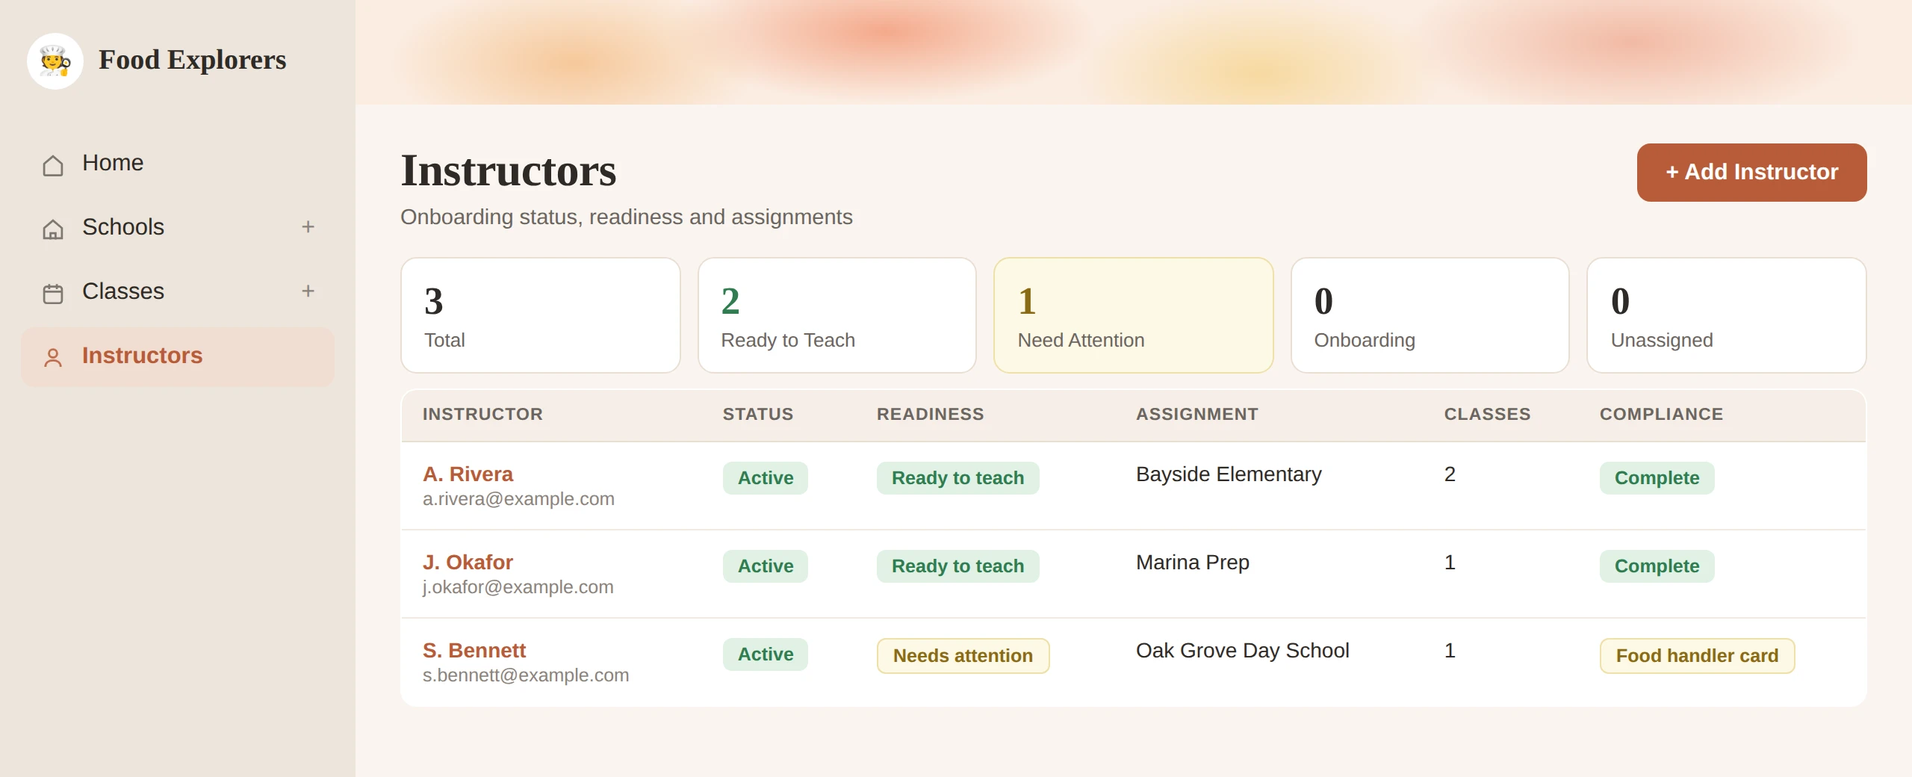
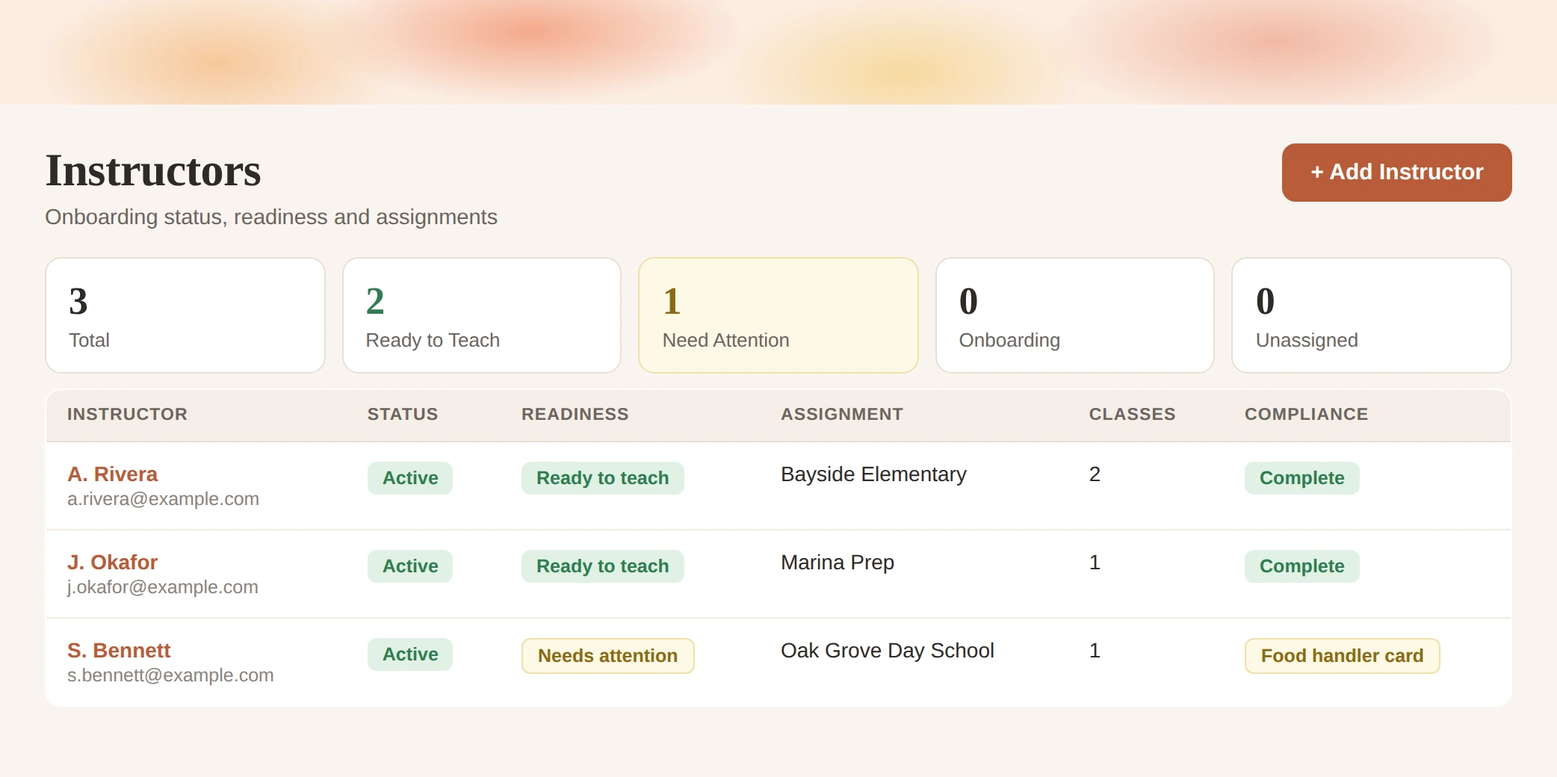
Rebuild the case study as a tight, repeatable template
It read as a feature tour rather than a case study: seven sections, four
full-width screenshots, and the argument spread so thin you had to work to
find it. Now five blocks and 585 words - header, the problem, what we
changed, what it looks like now, the result - with a comment at the top of the
file saying to copy it for the next one and resist adding a sixth.

Cut from four screenshots to two, which is the opposite of what "reduce the
image sizing" sounds like but is what it needs. These are shots of dense
tables: displayed smaller they look crisper and become unreadable, since 14px
type at 60% scale is 8px. Two images shown at a size where the type actually
reads beat four that are only decorative. The instructors view is cropped to
its content, because the empty sidebar was a quarter of the frame and repeated
from the image above it.

The compliance point is now a pull quote rather than a buried paragraph. It is
the sharpest thing in the story and the line another owner recognises: a late
invoice is an annoyance, an instructor turned away at a school door is not.

Text holds the spec's 680px measure; screenshots break out to 1000px so they
stay legible. Facts bar instead of prose for the at-a-glance details.

Fixed a signal error I introduced in the same pass: the list of manual work
used ledger-green ticks, which read as approval next to "hiring instructors by
hand". Neutral rules now.

Dropped the two unused images rather than shipping them; assets are down from
[…]

diff --git a/food-explorers.html b/food-explorers.html
@@ -4,9 +4,9 @@
 <meta charset="utf-8">
 <meta name="viewport" content="width=device-width, initial-scale=1">
 <title>Food Explorers</title>
-<meta name="description" content="After-school cooking classes across the Bay Area, run out of an inbox. What we changed about instructor onboarding, school compliance checks and seeing where the season stands.">
+<meta name="description" content="Case study: after-school cooking classes across the Bay Area, run out of one founder’s inbox. What we changed about instructor onboarding, school compliance checks and seeing where the season stands.">
 <meta property="og:title" content="Food Explorers">
-<meta property="og:description" content="After-school cooking classes across the Bay Area, run out of an inbox. What we changed about instructor onboarding, school compliance checks and seeing where the season stands.">
+<meta property="og:description" content="Case study: after-school cooking classes across the Bay Area, run out of one founder’s inbox. What we changed about instructor onboarding, school compliance checks and seeing where the season stands.">
 <link rel="preconnect" href="https://fonts.googleapis.com">
 <link rel="preconnect" href="https://fonts.gstatic.com" crossorigin>
 <link rel="stylesheet" href="https://fonts.googleapis.com/css2?family=Bricolage+Grotesque:opsz,wght@12..96,600;12..96,700&amp;family=Figtree:wght@400;500;600&amp;family=Kalam&amp;display=swap">
@@ -49,169 +49,122 @@
 
 <main id="main">
 
+<!-- =====================================================================
+     CASE STUDY TEMPLATE
+     Copy this file for the next one. Five blocks, in this order, and resist
+     adding a sixth:
+       1. Header      who they are, in one breath, plus the facts bar
+       2. The problem what it cost them, ending on the sharpest detail
+       3. What we changed   three items, one sentence each, no images
+       4. What it looks like now   two screenshots, readable size
+       5. Result + CTA
+     Keep it under ~600 words. A case study earns attention by being short
+     and specific, not by being thorough.
+     ===================================================================== -->
+
 <section class="sec sec--tight">
-  <div class="wrap">
-    <div class="sec-head">
-      <p class="eyebrow">How this worked for one business</p>
-      <h1>After-school cooking classes, run out of an inbox</h1>
-      <p class="lede">Food Explorers runs after-school cooking and baking classes in schools across the Bay Area. The classes were never the hard part. Everything around them was.</p>
-    </div>
+  <div class="wrap wrap--case">
+    <p class="eyebrow">Case study</p>
+    <h1>After-school cooking classes, run out of an inbox</h1>
+    <p class="lede cs-lede">Food Explorers teaches cooking and baking in schools across the Bay Area. Instructor onboarding, every school&rsquo;s background-check rules and all the invoicing ran through one founder&rsquo;s inbox.</p>
 
-    <div class="facts">
-      <div class="fact"><p class="fact__k">Business</p><p class="fact__v">After-school cooking and baking classes</p></div>
-      <div class="fact"><p class="fact__k">Where</p><p class="fact__v">Schools across the Bay Area</p></div>
-      <div class="fact"><p class="fact__k">Run by</p><p class="fact__v">The founder, with instructors on contract</p></div>
-      <div class="fact"><p class="fact__k">Started with</p><p class="fact__v">Google Drive, email and text messages</p></div>
-    </div>
+    <dl class="cs-facts">
+      <div><dt>Industry</dt><dd>After-school enrichment</dd></div>
+      <div><dt>Where</dt><dd>Bay Area schools</dd></div>
+      <div><dt>Team</dt><dd>Founder, plus contract instructors</dd></div>
+      <div><dt>Ran on</dt><dd>Google Drive, email, text messages</dd></div>
+    </dl>
   </div>
 </section>
 
-<section class="sec sec--deep">
-  <div class="wrap">
-    <div class="sec-head">
-      <h2>What a normal week looked like</h2>
-      <p class="lede">Every one of these was done by hand, by one person, every season.</p>
-    </div>
+<section class="sec sec--tight sec--deep">
+  <div class="wrap wrap--case">
+    <h2>The problem</h2>
+    <p class="cs-body">The classes were never the hard part. Everything around them was, and all of it ran again from scratch every season:</p>
 
-    <div class="wall" style="pointer-events:none">
-      <p class="stmt stmt--lg" style="cursor:default">Hiring an instructor, then walking them through onboarding from scratch.</p>
-      <p class="stmt" style="cursor:default">Training them, and getting them up to speed on how each school wants things done.</p>
-      <p class="stmt stmt--sm" style="cursor:default">Sending recipes and instructions out before every class.</p>
-      <p class="stmt" style="cursor:default">Working out schedules with schools and with parents.</p>
-      <p class="stmt stmt--lg" style="cursor:default">Writing and sending invoices to each school, one at a time.</p>
-      <p class="stmt" style="cursor:default">Remembering which background checks each school required, and who had finished them.</p>
-    </div>
+    <ul class="cs-list">
+      <li><svg width="18" height="18" viewBox="0 0 20 20" fill="none" stroke="#8A8279" stroke-width="1.75" stroke-linecap="round" aria-hidden="true"><path d="M4.5 10h11"/></svg><span>Hiring instructors, then walking each one through onboarding by hand</span></li>
+      <li><svg width="18" height="18" viewBox="0 0 20 20" fill="none" stroke="#8A8279" stroke-width="1.75" stroke-linecap="round" aria-hidden="true"><path d="M4.5 10h11"/></svg><span>Getting them up to speed on how each school wants things done</span></li>
+      <li><svg width="18" height="18" viewBox="0 0 20 20" fill="none" stroke="#8A8279" stroke-width="1.75" stroke-linecap="round" aria-hidden="true"><path d="M4.5 10h11"/></svg><span>Sending recipes and instructions before every class</span></li>
+      <li><svg width="18" height="18" viewBox="0 0 20 20" fill="none" stroke="#8A8279" stroke-width="1.75" stroke-linecap="round" aria-hidden="true"><path d="M4.5 10h11"/></svg><span>Working out schedules with schools and with parents</span></li>
+      <li><svg width="18" height="18" viewBox="0 0 20 20" fill="none" stroke="#8A8279" stroke-width="1.75" stroke-linecap="round" aria-hidden="true"><path d="M4.5 10h11"/></svg><span>Writing and sending every invoice, one at a time</span></li>
+      <li><svg width="18" height="18" viewBox="0 0 20 20" fill="none" stroke="#8A8279" stroke-width="1.75" stroke-linecap="round" aria-hidden="true"><path d="M4.5 10h11"/></svg><span>Remembering which background checks each school required, and who had finished them</span></li>
+    </ul>
 
-    <div class="prose" style="margin-top:clamp(28px,3.5vw,40px)">
-      <p>The documents themselves lived in Google Drive, which worked. The asking, the chasing and the remembering lived somewhere less reliable: a mix of email, text messages and the founder&rsquo;s memory.</p>
-      <p>None of it was broken, exactly. It just all ran through one person, and it all ran again from the start every season.</p>
-    </div>
+    <p class="cs-body">The documents lived in Google Drive, which worked. The asking, the chasing and the remembering lived in email, text messages and the founder&rsquo;s memory.</p>
+
+    <blockquote class="cs-pull">
+      <p>A late invoice is an annoyance. An instructor turned away at a school door on the first day of class is a different kind of problem &mdash; and every school sets its own rules about who is allowed on site.</p>
+    </blockquote>
+
+    <p class="cs-body">Tracked by hand, per instructor, per school, in an inbox. That is where the real risk sat.</p>
   </div>
 </section>
 
-<section class="sec">
-  <div class="wrap">
-    <div class="sec-head">
-      <h2>The part that couldn&rsquo;t slip</h2>
-    </div>
-    <div class="prose">
-      <p>Compliance. Before an instructor is allowed on a school site, that school&rsquo;s requirements have to be met: background checks, fingerprinting, whatever else that district asks for. Different schools want different things, in different forms, on different timelines.</p>
-      <p>A late invoice is an annoyance. An instructor turned away at the door on the first day of class is a different kind of problem, and it lands on the school&rsquo;s opinion of you as much as on the schedule.</p>
-      <p>Tracked by hand, per instructor, per school, in an inbox. That is where most of the risk sat.</p>
-    </div>
+<section class="sec sec--tight">
+  <div class="wrap wrap--case">
+    <h2>What we changed</h2>
+    <p class="cs-body">We followed a normal week before building anything. Three things were worth fixing; we left the rest alone.</p>
 
-    <div class="callout">
-      <svg width="18" height="18" viewBox="0 0 20 20" fill="none" stroke="#A9472A" stroke-width="1.75" stroke-linecap="round" stroke-linejoin="round" aria-hidden="true"><path d="M10 3.2l7.2 13.2H2.8z"/><path d="M10 8.4v3.2"/><path d="M10 14.1h.01"/></svg>
-      <p>This is the thing worth noticing: the founder wasn&rsquo;t behind because she was disorganised. She was behind because the work had no home outside her own attention.</p>
-    </div>
-  </div>
-</section>
-
-<section class="sec sec--deep">
-  <div class="wrap">
-    <div class="sec-head">
-      <h2>Where we started</h2>
-      <p class="lede">Not with software. With a walk through a normal week, to find which parts were actually costing her.</p>
-    </div>
-    <div class="prose">
-      <p>Three things came out of that. Onboarding took too many rounds of back-and-forth. Each school&rsquo;s compliance rules existed only in her head. And there was no single place to see where the season stood.</p>
-      <p>So we built those three, and left everything else alone.</p>
-    </div>
-  </div>
-</section>
-
-<section class="sec">
-  <div class="wrap">
-    <div class="sec-head">
-      <h2>What we built</h2>
-      <p class="lede">The views below are rebuilt from the real screens with example data. The layout and the information are hers; the names, schools and numbers are not.</p>
-    </div>
-
-    <div class="built">
-      <div class="built__n">01</div>
-      <div>
-        <h3>Onboarding that asks once</h3>
-        <p>A new instructor now gets one clear list of everything to send, up front, instead of discovering it over four rounds of email. What&rsquo;s arrived and what&rsquo;s still missing is visible without anyone having to ask.</p>
-        
-      <figure class="shot">
-        <img src="assets/fe-instructors.webp" width="2560" height="1040" loading="lazy" decoding="async"
-             alt="The instructor list: status, readiness, which school they are assigned to, and any compliance item still open.">
-        <figcaption>Every instructor, their onboarding status and what is still outstanding.</figcaption>
-      </figure>
-      </div>
-    </div>
-
-    <div class="built">
-      <div class="built__n">02</div>
-      <div>
-        <h3>A compliance checklist for each school</h3>
-        <p>Every school&rsquo;s requirements written down once, in one place, and tracked per instructor. When a school asks whether someone is cleared to be on site, the answer is on a screen rather than in a memory.</p>
-        
-      <figure class="shot">
-        <img src="assets/fe-schools.webp" width="2560" height="1294" loading="lazy" decoding="async"
-             alt="The schools view: active schools, classes and enrolment, with anything needing attention raised at the top.">
-        <figcaption>Each school, its classes, and anything needing attention.</figcaption>
-      </figure>
-      </div>
-    </div>
-
-    <div class="built">
-      <div class="built__n">03</div>
-      <div>
-        <h3>One view of the season</h3>
-        <p>Every school in the program, the classes running at each, which instructor is locked in, and which classes still have nobody. The things that need a decision sit at the top.</p>
-        
-      <figure class="shot">
-        <img src="assets/fe-season.webp" width="2560" height="1130" loading="lazy" decoding="async"
-             alt="The season overview: how ready the season is, and the two things that need the founder today.">
-        <figcaption>The season at a glance: what is ready, what is not, and what needs a decision today.</figcaption>
-      </figure>
-        
-      <figure class="shot">
-        <img src="assets/fe-classes.webp" width="2560" height="1412" loading="lazy" decoding="async"
-             alt="The class list: school, schedule, enrolment, assigned instructor and status for every class in the season.">
-        <figcaption>Every class, its schedule, and whether it has an instructor yet.</figcaption>
-      </figure>
-      </div>
-    </div>
-  </div>
-</section>
-
-<section class="sec sec--deep">
-  <div class="wrap">
-    <div class="sec-head"><h2>What changed</h2></div>
-    <div class="teams">
-      <div>
-        <div class="prose">
-          <p>The founder opens one page and knows where the season stands: which classes still need an instructor, whose paperwork is outstanding, and which school is closest to being a problem.</p>
-          <p>The work that used to live in her attention now lives somewhere she can look at it.</p>
-          <p class="tofill" style="display:block;padding:14px;white-space:normal">One real number goes here before this page is published: hours a week returned, days saved per instructor onboarded, or rounds of email removed. Ask her for the figure; don&rsquo;t estimate it.</p>
+    <ol class="cs-steps">
+      <li>
+        <span class="cs-steps__n">01</span>
+        <div>
+          <h3>Onboarding that asks once</h3>
+          <p>One clear list of everything a new instructor needs to send, given up front instead of discovered over four rounds of email.</p>
         </div>
-      </div>
-      <div>
-        <div class="trust">
-          <h3 style="font-size:20px">What we didn&rsquo;t change</h3>
-          <ul class="own__list" style="grid-template-columns:1fr;margin-top:14px">
-            <li><svg width="18" height="18" viewBox="0 0 20 20" fill="none" stroke="#2F5D48" stroke-width="1.75" stroke-linecap="round" stroke-linejoin="round" aria-hidden="true"><path d="M4 10.4l4.2 4.2L16.4 5.6"/></svg><span>Google Drive stayed. The documents still live where they always did.</span></li>
-            <li><svg width="18" height="18" viewBox="0 0 20 20" fill="none" stroke="#2F5D48" stroke-width="1.75" stroke-linecap="round" stroke-linejoin="round" aria-hidden="true"><path d="M4 10.4l4.2 4.2L16.4 5.6"/></svg><span>No new tool for instructors to learn before they can teach.</span></li>
-            <li><svg width="18" height="18" viewBox="0 0 20 20" fill="none" stroke="#2F5D48" stroke-width="1.75" stroke-linecap="round" stroke-linejoin="round" aria-hidden="true"><path d="M4 10.4l4.2 4.2L16.4 5.6"/></svg><span>The accounts are in her name. We can be removed without anything breaking.</span></li>
-          </ul>
+      </li>
+      <li>
+        <span class="cs-steps__n">02</span>
+        <div>
+          <h3>A compliance checklist for each school</h3>
+          <p>Every school&rsquo;s requirements written down once and tracked per instructor, so &ldquo;is she cleared to be on site?&rdquo; is a screen, not a memory.</p>
         </div>
-      </div>
-    </div>
+      </li>
+      <li>
+        <span class="cs-steps__n">03</span>
+        <div>
+          <h3>One view of the season</h3>
+          <p>Every school, the classes at each, who is locked in, and which classes still have nobody.</p>
+        </div>
+      </li>
+    </ol>
   </div>
 </section>
 
-<section class="sec">
-  <div class="wrap">
-    <div class="sec-head">
-      <h2>Sound like your business?</h2>
-      <p class="lede">Food Explorers teaches cooking. The same shape shows up in martial-arts schools, music schools, tutoring centres, home-service companies and anywhere else that sends trained people out to other people&rsquo;s sites.</p>
-    </div>
-    <div class="prose">
-      <p>If you are the one who remembers what each customer requires, who chases the paperwork, and who would be the single point of failure if you took a week off, that is the same problem wearing different clothes.</p>
-    </div>
-    <div class="btn-row" style="margin-top:26px">
+<section class="sec sec--tight sec--deep">
+  <div class="wrap wrap--case">
+    <h2>What it looks like now</h2>
+    <p class="cs-body">Rebuilt from the real screens with example data. The layout and the information are hers; the names and numbers are not.</p>
+
+    <figure class="cs-shot">
+      <img src="assets/fe-season.webp" width="2560" height="1130" loading="lazy" decoding="async"
+           alt="The season overview: 75% ready, three schools, four classes, and the two items that need her today.">
+      <figcaption>The morning view. One class still needs an instructor; one instructor still owes a food handler card. Everything else is done.</figcaption>
+    </figure>
+
+    <figure class="cs-shot">
+      <img src="assets/fe-instructors.webp" width="2084" height="1040" loading="lazy" decoding="async"
+           alt="The instructor list showing each person's status, readiness, assigned school and outstanding compliance item.">
+      <figcaption>Every instructor, and what each one still owes. The question a school asks now takes a second to answer.</figcaption>
+    </figure>
+  </div>
+</section>
+
+<section class="sec sec--tight">
+  <div class="wrap wrap--case">
+    <h2>The result</h2>
+    <p class="cs-body">She opens one page and knows where the season stands: which classes need an instructor, whose paperwork is outstanding, and which school is closest to being a problem. The work that used to live in her attention now lives somewhere she can look at it.</p>
+    <p class="cs-body">Google Drive stayed. Instructors learned no new tool. The accounts are in her name.</p>
+    <p class="tofill cs-number">One real number goes here before this page is published &mdash; hours a week returned, or rounds of email removed. Ask her; don&rsquo;t estimate it.</p>
+  </div>
+</section>
+
+<section class="sec final">
+  <div class="wrap wrap--case">
+    <h2>Sound like your business?</h2>
+    <p class="lede cs-lede" style="margin-top:14px">Food Explorers teaches cooking. The same shape turns up in martial-arts schools, music schools, home-service companies &mdash; anywhere you send trained people to other people&rsquo;s sites and carry the paperwork yourself.</p>
+    <div class="btn-row" style="margin-top:24px">
       <a class="btn btn--primary" href="book.html">Book a free walkthrough</a>
       <a class="btn btn--ghost" href="index.html#recognition">Take the 2-minute check</a>
     </div>
@@ -231,7 +184,6 @@
       <nav aria-label="What we do">
         <a href="how-it-works.html">How it works</a>
         <a href="assessment.html">The assessment</a>
-        <a href="food-explorers.html">Food Explorers</a>
         <a href="index.html#plate">What we handle</a>
         <a href="index.html#pricing">Pricing</a>
       </nav>

diff --git a/assets/styles.css b/assets/styles.css
@@ -609,32 +609,6 @@ input[type=range]{ width:100%; height:44px; accent-color:var(--brick); backgroun
   .rail__cta{ display:none; }
 }
 
-/* ==========================================================================
-   Use case page
-   ========================================================================== */
-.facts{ display:grid; gap:1px; background:var(--line); border:1px solid var(--line); border-radius:var(--r-card); overflow:hidden; }
-@media (min-width:700px){ .facts{ grid-template-columns:repeat(4,1fr); } }
-.fact{ background:var(--card); padding:16px 18px; }
-.fact__k{ font-size:14px; color:var(--ink-soft); margin-bottom:5px; }
-.fact__v{ font-weight:600; font-size:16px; line-height:1.35; }
-
-.callout{ display:flex; gap:13px; align-items:flex-start; margin-top:clamp(26px,3vw,36px);
-  padding:20px 22px; background:var(--brick-tint); border:1px solid #E3C7BC; border-radius:var(--r-card); }
-.callout svg{ flex:none; margin-top:4px; }
-.callout p{ font-size:17px; line-height:1.55; max-width:60ch; }
-
-.built{ display:grid; grid-template-columns:auto minmax(0,1fr); gap:18px; padding:26px 0; border-top:1px solid var(--line); }
-.built:last-of-type{ border-bottom:1px solid var(--line); }
-.built__n{ font-family:var(--display); font-weight:700; font-size:15px; color:var(--brick); font-variant-numeric:tabular-nums; padding-top:5px; }
-.built h3{ margin-bottom:8px; }
-.built p{ color:var(--ink-soft); max-width:66ch; }
-
-/* Screenshot slots. Deliberately obvious until the real images drop in. */
-.shot{ margin:22px 0 0; }
-.shot img{ display:block; width:100%; height:auto; border:1px solid var(--line);
-  border-radius:var(--r-card); background:var(--card); }
-.shot figcaption{ margin-top:10px; font-size:15px; color:var(--ink-soft); }
-
 /* Homepage teaser for the use case */
 .usecase{ display:grid; gap:22px; align-items:center; margin-top:clamp(32px,4vw,48px);
   padding:clamp(22px,3vw,30px); background:var(--card); border:1px solid var(--line); border-radius:var(--r-card); }
@@ -654,3 +628,53 @@ input[type=range]{ width:100%; height:44px; accent-color:var(--brick); backgroun
   box-shadow:var(--shadow-panel); background:var(--card); transition:transform .18s ease; }
 .story__shot:hover{ transform:translateY(-2px); }
 .story__shot img{ display:block; width:100%; height:auto; }
+
+/* ==========================================================================
+   Case study template (.cs-*). Reusable: the next case study copies
+   food-explorers.html and changes only the words and the two screenshots.
+   Text holds the spec's 680px reading measure; screenshots break out wider
+   so the type inside them stays legible.
+   ========================================================================== */
+.wrap--case{ max-width:1000px; }
+.wrap--case h1{ margin-bottom:18px; }
+.wrap--case h2{ margin-bottom:16px; }
+.wrap--case h3{ margin-bottom:5px; }
+.cs-lede{ max-width:min(680px,66ch); }
+.cs-body{ max-width:min(680px,68ch); color:var(--ink-soft); font-size:17.5px; line-height:1.6; }
+.cs-body + .cs-body{ margin-top:1em; }
+
+/* Facts bar: scannable, no card. */
+.cs-facts{ display:grid; gap:1px; margin:clamp(26px,3.4vw,38px) 0 0;
+  background:var(--line); border-block:1px solid var(--line); }
+@media (min-width:700px){ .cs-facts{ grid-template-columns:repeat(4,1fr); } }
+.cs-facts > div{ background:var(--paper); padding:15px 0; }
+@media (min-width:700px){ .cs-facts > div{ padding:15px 18px; } .cs-facts > div:first-child{ padding-left:0; } }
+.cs-facts dt{ font-size:14px; color:var(--ink-soft); margin-bottom:4px; }
+.cs-facts dd{ margin:0; font-weight:600; font-size:16px; line-height:1.35; }
+
+.cs-list{ list-style:none; margin:20px 0 24px; padding:0; display:grid; gap:10px; max-width:min(680px,68ch); }
+.cs-list li{ display:flex; gap:10px; align-items:flex-start; font-size:16.5px; line-height:1.45; }
+.cs-list svg{ flex:none; margin-top:3px; }
+
+/* The sharpest sentence gets room. One per case study. */
+.cs-pull{ margin:clamp(24px,3vw,34px) 0; padding:20px 0 20px 22px;
+  border-left:3px solid var(--brick); max-width:min(700px,62ch); }
+.cs-pull p{ font-family:var(--display); font-weight:600; font-size:clamp(19px,2.1vw,23px);
+  line-height:1.35; letter-spacing:-.01em; }
+
+.cs-steps{ list-style:none; margin:24px 0 0; padding:0; display:grid; gap:0; max-width:min(760px,72ch); }
+.cs-steps li{ display:grid; grid-template-columns:auto minmax(0,1fr); gap:18px;
+  padding:20px 0; border-top:1px solid var(--line); }
+.cs-steps li:last-child{ border-bottom:1px solid var(--line); }
+.cs-steps__n{ font-family:var(--display); font-weight:700; font-size:14px; color:var(--brick);
+  font-variant-numeric:tabular-nums; padding-top:5px; }
+.cs-steps p{ color:var(--ink-soft); font-size:16.5px; line-height:1.5; }
+
+/* Screenshots: wider than the text column, capped so the type stays readable. */
+.cs-shot{ margin:26px 0 0; max-width:1000px; }
+.cs-shot img{ display:block; width:100%; height:auto; border:1px solid var(--line);
+  border-radius:var(--r-panel); box-shadow:var(--shadow-panel); background:var(--card); }
+.cs-shot figcaption{ margin-top:12px; font-size:15.5px; color:var(--ink-soft); max-width:min(680px,68ch); }
+
+.cs-number{ display:block; margin-top:20px; padding:14px 16px; white-space:normal;
+  max-width:min(680px,68ch); line-height:1.5; }
